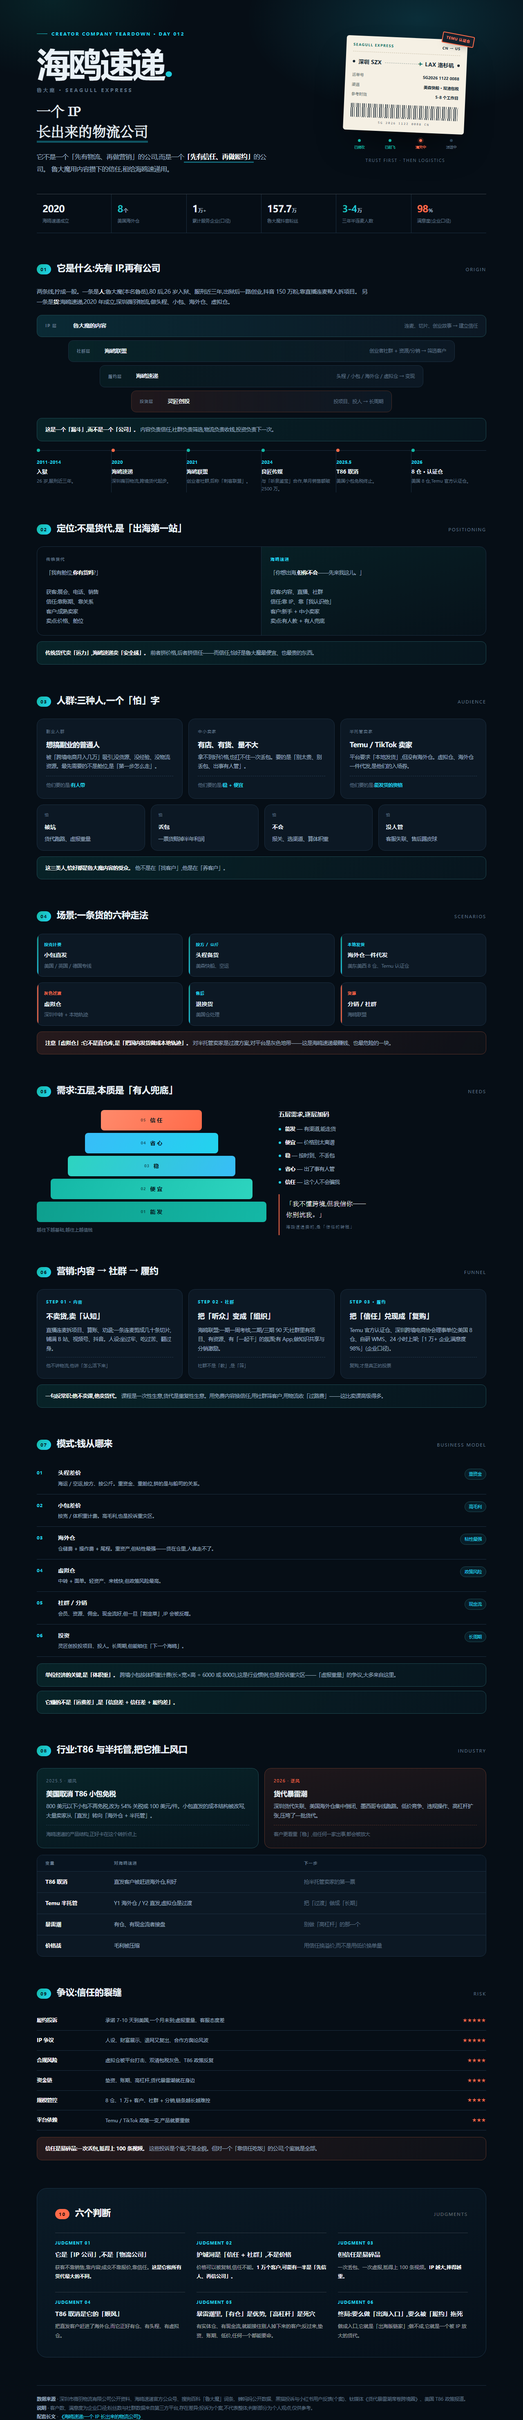
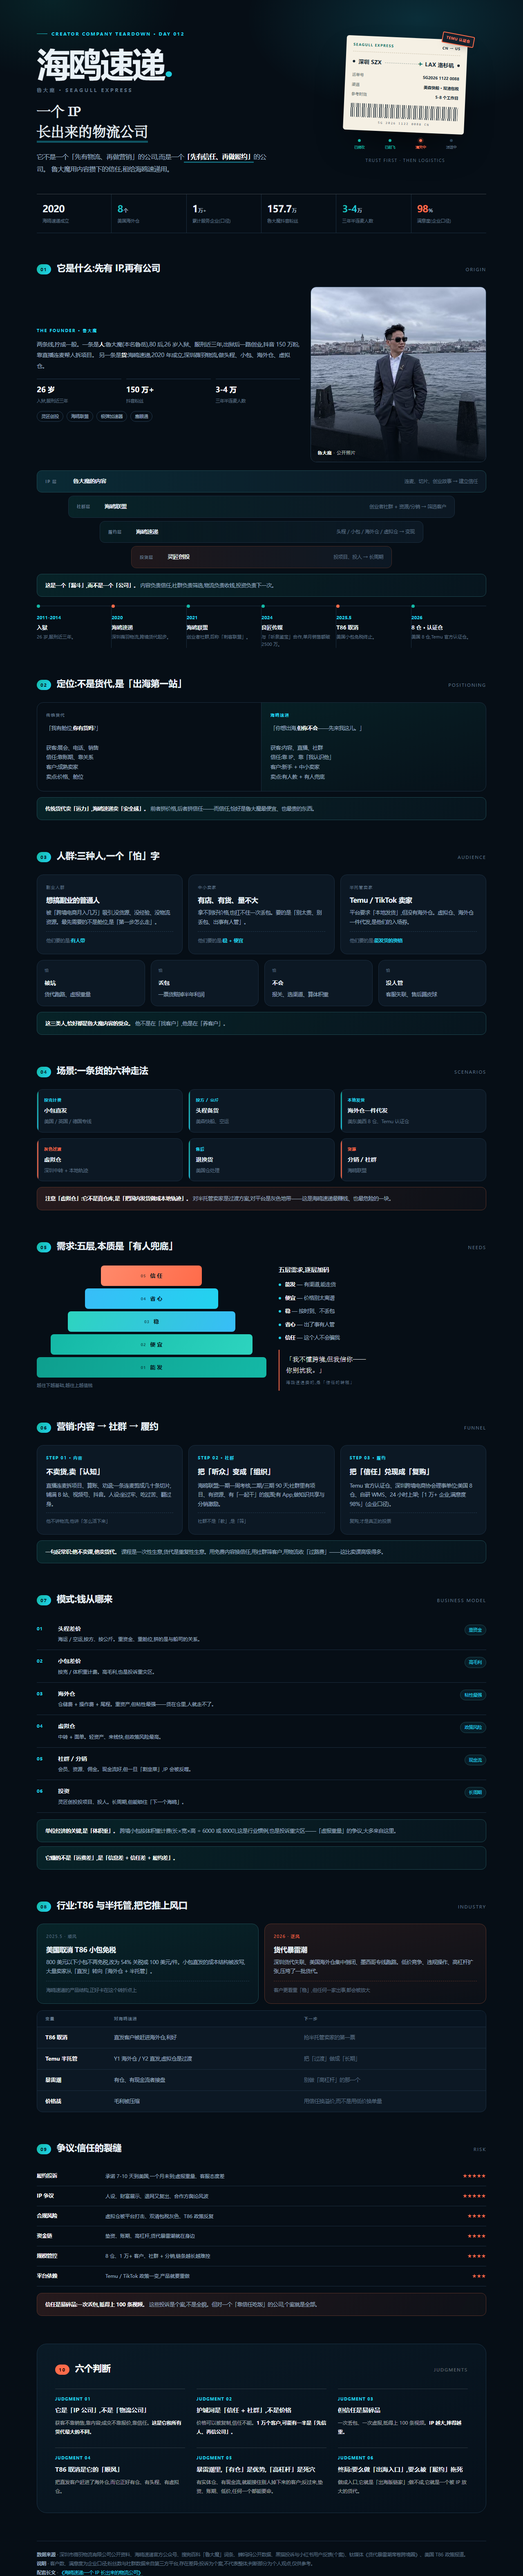
feat: 012 海鸥速递 加入鲁大魔照片(创始人卡片 + 移动端适配)

diff --git a/012-seagull/index.html b/012-seagull/index.html
@@ -105,6 +105,23 @@
   .cr-card{background:linear-gradient(170deg,rgba(255,107,74,.1),rgba(255,107,74,.02));border-color:#5A3228;}
   .cr-card .tag{color:var(--coral);}
 
+  /* origin */
+  .origin{display:grid;grid-template-columns:1.2fr .8fr;gap:26px;align-items:center;margin-bottom:20px;}
+  .origin-copy p{font-size:13.5px;line-height:1.95;color:var(--ink2);}
+  .origin-kicker{font-size:10px;letter-spacing:.2em;color:var(--cyan);font-weight:700;margin-bottom:12px;}
+  .origin-copy p strong{color:#fff;font-weight:700;}
+  .origin-facts{display:grid;grid-template-columns:repeat(3,1fr);gap:12px;margin-top:18px;}
+  .origin-facts div{border-top:1px solid var(--line2);padding-top:10px;}
+  .origin-facts b{display:block;font-size:18px;font-weight:900;letter-spacing:-.02em;color:#fff;font-feature-settings:"tnum";}
+  .origin-facts span{display:block;font-size:10.5px;color:var(--ink3);margin-top:2px;}
+  .origin-roles{display:flex;flex-wrap:wrap;gap:8px;margin-top:16px;}
+  .origin-roles span{font-size:10.5px;color:var(--ink2);border:1px solid var(--line2);border-radius:999px;padding:3px 10px;letter-spacing:.02em;}
+  .portrait{position:relative;border-radius:14px;overflow:hidden;border:1px solid var(--line2);margin:0;background:#0A1622;}
+  .portrait img{display:block;width:100%;height:auto;filter:saturate(.92) contrast(1.03) brightness(.96);}
+  .portrait::after{content:"";position:absolute;inset:0;background:linear-gradient(180deg,rgba(6,14,22,0) 52%,rgba(6,14,22,.92) 100%);}
+  .portrait figcaption{position:absolute;left:16px;bottom:13px;z-index:2;font-size:10.5px;letter-spacing:.1em;color:rgba(255,255,255,.7);}
+  .portrait figcaption b{color:#fff;font-weight:700;}
+
   /* funnel */
   .funnel{display:flex;flex-direction:column;gap:8px;align-items:center;margin:18px 0 6px;}
   .fn{width:100%;display:flex;align-items:center;justify-content:space-between;gap:16px;padding:14px 20px;border-radius:12px;border:1px solid var(--line);background:var(--card);}
@@ -228,14 +245,14 @@
     .sec-en{display:none;}
     .sec-title{font-size:20px;}
     .mbr{display:inline;}
-    .grid-2,.grid-3,.grid-4,.need,.vs,.steps{grid-template-columns:1fr;}
+    .grid-2,.grid-3,.grid-4,.need,.vs,.steps,.origin{grid-template-columns:1fr;}
     .vs-col{border-right:none;border-bottom:1px solid var(--line);}
     .vs-col:last-child{border-bottom:none;}
     .tl{grid-template-columns:1fr;border-top:none;}
     .tl-item{border-right:none;border-top:1px solid var(--line);padding:14px 0 0 14px;}
     .tl-item::before{left:0;top:18px;}
-    .fn{width:100% !important;}
-    .fn .d{display:none;}
+    .fn{width:100% !important;flex-direction:column;align-items:flex-start;gap:4px;}
+    .fn .d{display:block;font-size:11px;}
     .mech{grid-template-columns:26px 1fr;}
     .mech .chip{grid-column:2;justify-self:start;margin-top:6px;}
     .cmp-row{grid-template-columns:1fr;gap:3px;padding:13px 16px;}
@@ -307,10 +324,27 @@
       <span class="sec-title">它是什么:先有 IP,再有公司</span>
       <span class="sec-en">Origin</span>
     </div>
-    <p style="font-size:13.5px;line-height:1.9;color:var(--ink2);max-width:820px;margin-bottom:18px;">
-      两条线,拧成一股。一条是<strong style="color:#fff;">人</strong>:鲁大魔(本名鲁岳),80 后,26 岁入狱、服刑近三年,出狱后一路创业,抖音 150 万粉,靠直播连麦帮人拆项目。
-      另一条是<strong style="color:#fff;">货</strong>:海鸥速递,2020 年成立,深圳薇羽物流,做头程、小包、海外仓、虚拟仓。
-    </p>
+    <div class="origin">
+      <div class="origin-copy">
+        <div class="origin-kicker">THE FOUNDER · 鲁大魔</div>
+        <p>
+          两条线,拧成一股。一条是<strong>人</strong>:鲁大魔(本名鲁岳),80 后,26 岁入狱、服刑近三年,出狱后一路创业,抖音 150 万粉,靠直播连麦帮人拆项目。
+          另一条是<strong>货</strong>:海鸥速递,2020 年成立,深圳薇羽物流,做头程、小包、海外仓、虚拟仓。
+        </p>
+        <div class="origin-facts">
+          <div><b>26 岁</b><span>入狱,服刑近三年</span></div>
+          <div><b>150 万+</b><span>抖音粉丝</span></div>
+          <div><b>3-4 万</b><span>三年半连麦人数</span></div>
+        </div>
+        <div class="origin-roles">
+          <span>灵匠创投</span><span>海鸥联盟</span><span>极弹加速器</span><span>鹰眼通</span>
+        </div>
+      </div>
+      <figure class="portrait">
+        <img src="ludamo.jpg" alt="鲁大魔">
+        <figcaption><b>鲁大魔</b> · 公开照片</figcaption>
+      </figure>
+    </div>
     <div class="funnel">
       <div class="fn"><div class="l"><span class="lv">IP 层</span><span class="t">鲁大魔的内容</span></div><div class="d">连麦、切片、创业故事 → 建立信任</div></div>
       <div class="fn"><div class="l"><span class="lv">社群层</span><span class="t">海鸥联盟</span></div><div class="d">创业者社群 + 资源/分销 → 筛选客户</div></div>
